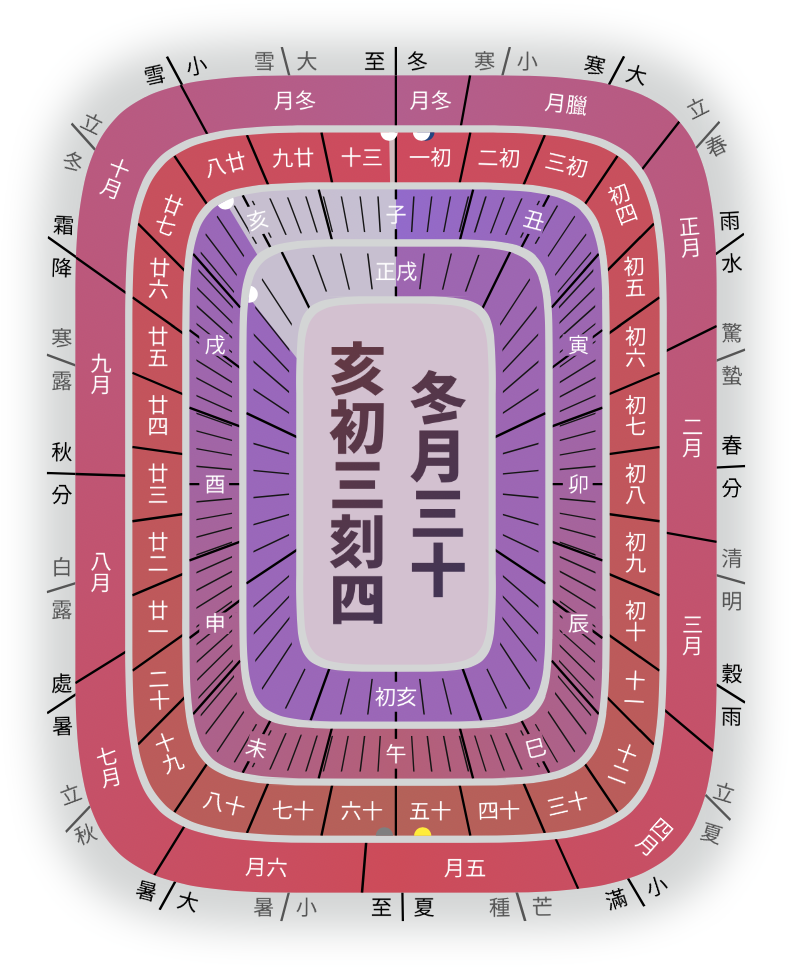
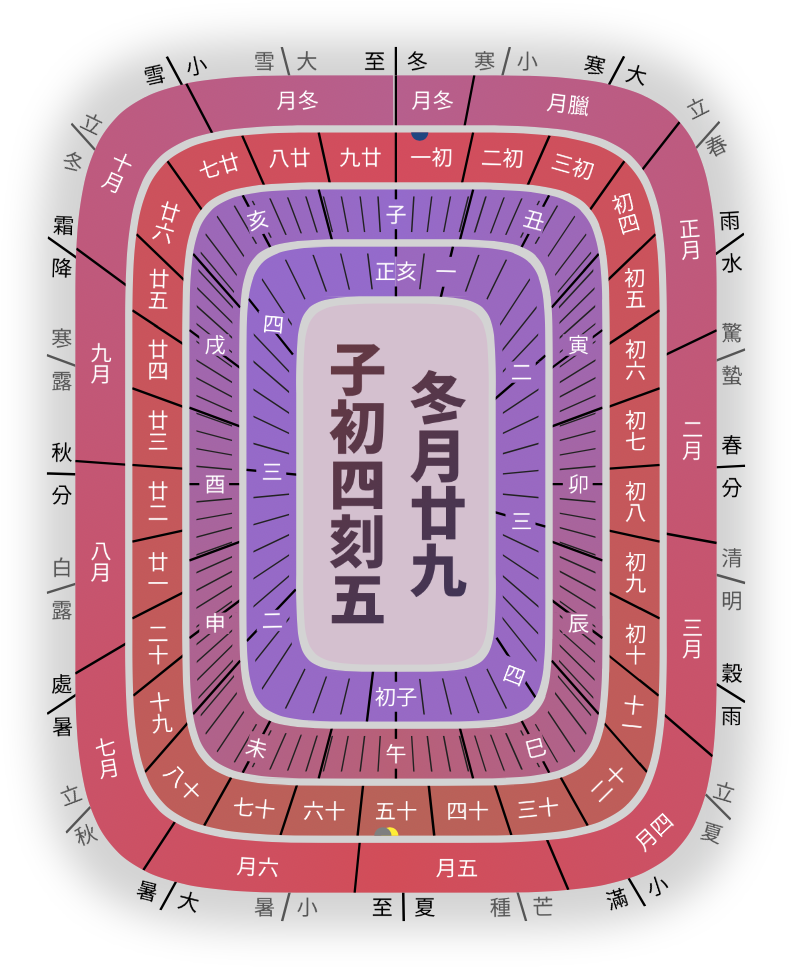
Several minor fixes

diff --git a/ChineseTime/Layout.swift b/ChineseTime/Layout.swift
@@ -287,7 +287,7 @@ class WatchLayout {
         return encoded
     }
     
-    init(from str: String) {
+    func update(from str: String) {
         let regex = try! NSRegularExpression(pattern: "^([a-z_0-9]+)\\s*:[\\s\"]*([^\\s\"#][^\"#]*)[\\s\"#]*(#*.*)$", options: .caseInsensitive)
         var values = Dictionary<String, String>()
         for line in str.split(whereSeparator: \.isNewline) {
@@ -298,46 +298,43 @@ class WatchLayout {
             }
         }
         
-        let backup = WatchLayout()
-        
         ChineseCalendar.globalMonth = values["globalMonth"]?.boolValue ?? ChineseCalendar.globalMonth
-        backAlpha = values["backAlpha"]?.floatValue ?? backup.backAlpha
-        firstRing = Gradient(from: values["firstRing"]?.replacingOccurrences(of: "{}", with: "\n")) ?? backup.firstRing
-        secondRing = Gradient(from: values["secondRing"]?.replacingOccurrences(of: "{}", with: "\n")) ?? backup.secondRing
-        thirdRing = Gradient(from: values["thirdRing"]?.replacingOccurrences(of: "{}", with: "\n")) ?? backup.thirdRing
-        innerColor = values["innerColor"]?.colorValue ?? backup.innerColor
-        majorTickColor = values["majorTickColor"]?.colorValue ?? backup.majorTickColor
-        minorTickColor = values["minorTickColor"]?.colorValue ?? backup.minorTickColor
-        centerFontColor = Gradient(from: values["centerFontColor"]?.replacingOccurrences(of: "{}", with: "\n")) ?? backup.centerFontColor
-        evenSolarTermTickColor = values["evenSolarTermTickColor"]?.colorValue ?? backup.evenSolarTermTickColor
-        oddSolarTermTickColor = values["oddSolarTermTickColor"]?.colorValue ?? backup.oddSolarTermTickColor
-        evenSolarTermTickColorDark = values["evenSolarTermTickColorDark"]?.colorValue ?? backup.evenSolarTermTickColorDark
-        oddSolarTermTickColorDark = values["oddSolarTermTickColorDark"]?.colorValue ?? backup.oddSolarTermTickColorDark
-        eclipseIndicator = values["eclipseIndicator"]?.colorValue ?? backup.eclipseIndicator
-        fullmoonIndicator = values["fullmoonIndicator"]?.colorValue ?? backup.fullmoonIndicator
-        oddStermIndicator = values["oddStermIndicator"]?.colorValue ?? backup.oddStermIndicator
-        evenStermIndicator = values["evenStermIndicator"]?.colorValue ?? backup.evenStermIndicator
-        fontColor = values["fontColor"]?.colorValue ?? backup.fontColor
-        shadeAlpha = values["shadeAlpha"]?.floatValue ?? backup.shadeAlpha
+        backAlpha = values["backAlpha"]?.floatValue ?? backAlpha
+        firstRing = Gradient(from: values["firstRing"]?.replacingOccurrences(of: "{}", with: "\n")) ?? firstRing
+        secondRing = Gradient(from: values["secondRing"]?.replacingOccurrences(of: "{}", with: "\n")) ?? secondRing
+        thirdRing = Gradient(from: values["thirdRing"]?.replacingOccurrences(of: "{}", with: "\n")) ?? thirdRing
+        innerColor = values["innerColor"]?.colorValue ?? innerColor
+        majorTickColor = values["majorTickColor"]?.colorValue ?? majorTickColor
+        minorTickColor = values["minorTickColor"]?.colorValue ?? minorTickColor
+        centerFontColor = Gradient(from: values["centerFontColor"]?.replacingOccurrences(of: "{}", with: "\n")) ?? centerFontColor
+        evenSolarTermTickColor = values["evenSolarTermTickColor"]?.colorValue ?? evenSolarTermTickColor
+        oddSolarTermTickColor = values["oddSolarTermTickColor"]?.colorValue ?? oddSolarTermTickColor
+        evenSolarTermTickColorDark = values["evenSolarTermTickColorDark"]?.colorValue ?? evenSolarTermTickColorDark
+        oddSolarTermTickColorDark = values["oddSolarTermTickColorDark"]?.colorValue ?? oddSolarTermTickColorDark
+        eclipseIndicator = values["eclipseIndicator"]?.colorValue ?? eclipseIndicator
+        fullmoonIndicator = values["fullmoonIndicator"]?.colorValue ?? fullmoonIndicator
+        oddStermIndicator = values["oddStermIndicator"]?.colorValue ?? oddStermIndicator
+        evenStermIndicator = values["evenStermIndicator"]?.colorValue ?? evenStermIndicator
+        fontColor = values["fontColor"]?.colorValue ?? fontColor
+        shadeAlpha = values["shadeAlpha"]?.floatValue ?? shadeAlpha
         if let name = values["textFont"] {
-            textFont = NSFont(name: name, size: NSFont.systemFontSize) ?? backup.textFont
-        } else {
-            textFont = backup.textFont
+            textFont = NSFont(name: name, size: NSFont.systemFontSize) ?? textFont
         }
         if let name = values["centerFont"] {
-            centerFont = NSFont(name: name, size: NSFont.systemFontSize) ?? backup.centerFont
-        } else {
-            centerFont = backup.centerFont
+            centerFont = NSFont(name: name, size: NSFont.systemFontSize) ?? centerFont
         }
-        centerTextOffset = values["centerTextOffset"]?.floatValue ?? backup.centerTextOffset
-        verticalTextOffset = values["verticalTextOffset"]?.floatValue ?? backup.verticalTextOffset
-        horizontalTextOffset = values["horizontalTextOffset"]?.floatValue ?? backup.horizontalTextOffset
+        centerTextOffset = values["centerTextOffset"]?.floatValue ?? centerTextOffset
+        verticalTextOffset = values["verticalTextOffset"]?.floatValue ?? verticalTextOffset
+        horizontalTextOffset = values["horizontalTextOffset"]?.floatValue ?? horizontalTextOffset
         if let width = values["watchWidth"]?.floatValue, let height = values["watchHeight"]?.floatValue {
             watchSize = NSMakeSize(width, height)
-        } else {
-            watchSize = backup.watchSize
         }
-        cornerRadiusRatio = values["cornerRadiusRatio"]?.floatValue ?? backup.cornerRadiusRatio
+        cornerRadiusRatio = values["cornerRadiusRatio"]?.floatValue ?? cornerRadiusRatio
+    }
+    
+    convenience init(from str: String) {
+        self.init()
+        update(from: str)
     }
 }
 
@@ -516,7 +513,12 @@ class ConfigurationViewController: NSViewController, NSWindowDelegate {
     }
     @IBAction func revert(_ sender: Any) {
         view.window?.makeFirstResponder(revertButton)
-        updateUI()
+        if let watchFace = WatchFace.currentInstance, let temp = WatchFaceView.layoutTemplate {
+            watchFace._view.watchLayout.update(from: temp)
+            watchFace.updateSize(with: watchFace.frame)
+            watchFace._view.drawView()
+            updateUI()
+        }
     }
     @IBAction func apply(_ sender: Any) {
         updateData()

diff --git a/ChineseTime/WatchFace.swift b/ChineseTime/WatchFace.swift
@@ -87,7 +87,7 @@ class RoundedRect {
     func shrink(by diameterChange: CGFloat) -> RoundedRect {
         let shortEdgeLength = min(_boundBox.width, _boundBox.height)
         let horizontalShift = diameterChange * (shortEdgeLength - _nodePos) / max(_boundBox.width, _boundBox.height)
-        let newNodePos = min(shortEdgeLength / 2 - diameterChange, _nodePos + horizontalShift - diameterChange)
+        let newNodePos = max(0, min(shortEdgeLength / 2 - diameterChange, _nodePos + horizontalShift - diameterChange))
         let newAnkorPos = max(0, (_ankorPos + 0.55 * diameterChange + 0.31 * horizontalShift) - diameterChange)
         var newBoundBox = _boundBox
         newBoundBox.origin.x += diameterChange
@@ -98,6 +98,7 @@ class RoundedRect {
     }
     
     func bezierLength(t: CGFloat) -> CGFloat {
+        guard _nodePos > 0 else { return 0 }
         let alpha = _ankorPos / _nodePos
         
         var length = -2 * (3 - 3 * t + pow(t, 2))
@@ -811,16 +812,34 @@ class WatchFaceView: NSView {
         thirdRingMinorTicksShape.mask = thirdRingMinor
         
         let quarterRing = fourthRingOuter.shrink(by: 0.035 * shortEdge)
-        let innerHourPoints = quarterRing.arcPoints(lambdas: [0.0, 0.5])
+        let subHourTicks = Array(subHourTick).sorted()
+        let innerHourPoints = quarterRing.arcPoints(lambdas: subHourTicks)
         let innerHourNameMaskPath = CGMutablePath()
-        
-        let evenHourText = "\(ChineseCalendar.terrestrial_branches[Int(currentHour / 2)])正"
-        let oddHourText = "\(ChineseCalendar.terrestrial_branches[(Int(currentHour / 2)+1) % 12])初"
-        let innerHourMaskPath1 = drawText(str: evenHourText, at: innerHourPoints[0].position, angle: innerHourPoints[0].direction, color: watchLayout.fontColor, size: fontSize)
-        let innerHourMaskPath2 = drawText(str: oddHourText, at: innerHourPoints[1].position, angle: innerHourPoints[1].direction, color: watchLayout.fontColor, size: fontSize)
-        
-        innerHourNameMaskPath.addPath(innerHourMaskPath1)
-        innerHourNameMaskPath.addPath(innerHourMaskPath2)
+        let evenHourText = ChineseCalendar.terrestrial_branches[Int(currentHour / 2)] + ChineseCalendar.sub_hour_name[1]
+        let oddHourText = ChineseCalendar.terrestrial_branches[(Int(currentHour / 2)+1) % 12] + ChineseCalendar.sub_hour_name[0]
+
+        i = 0
+        for point in innerHourPoints {
+            let str: String
+            let dist = abs(subHourTicks[i] * 2 - round(subHourTicks[i] * 2))
+            if dist == 0 || dist > 0.05 {
+                switch i {
+                case 0:
+                    str = evenHourText
+                case 5:
+                    str = oddHourText
+                case 1...4:
+                    str = ChineseCalendar.chinese_numbers[i]
+                case 6...9:
+                    str = ChineseCalendar.chinese_numbers[i-5]
+                default:
+                    str = ""
+                }
+                let path = drawText(str: str, at: point.position, angle: point.direction, color: watchLayout.fontColor, size: fontSize)
+                innerHourNameMaskPath.addPath(path)
+            }
+            i += 1
+        }
         fourthRingOuterPath.addPath(innerHourNameMaskPath)
         fourthRingMinorPath.addPath(innerHourNameMaskPath)
         fourthRingMinor.path = fourthRingMinorPath

diff --git a/ChineseTime/Model.swift b/ChineseTime/Model.swift
@@ -59,6 +59,7 @@ class ChineseCalendar {
     static let month_chinese = ["冬月", "臘月", "正月", "二月", "三月", "四月", "五月", "六月", "七月", "八月", "九月", "十月"]
     static let day_chinese = ["初一", "初二", "初三", "初四", "初五", "初六", "初七", "初八", "初九", "初十" ,"十一", "十二", "十三", "十四", "十五", "十六", "十七", "十八", "十九", "二十", "廿一", "廿二", "廿三", "廿四", "廿五", "廿六", "廿七", "廿八", "廿九", "三十"]
     static let terrestrial_branches = ["子","丑","寅","卯","辰","巳","午","未","申","酉","戌","亥"]
+    static let sub_hour_name = ["初", "正"]
     static let chinese_numbers = ["初", "一", "二", "三", "四", "五"]
     static let evenSolarTermChinese = ["冬　至", "大　寒", "雨　水", "春　分", "穀　雨", "小　滿", "夏　至", "大　暑", "處　暑", "秋　分", "霜　降", "小　雪"]
     static let oddSolarTermChinese = ["小　寒", "立　春", "驚　蟄", "清　明", "立　夏", "芒　種", "小　暑", "立　秋", "白　露", "寒　露", "立　冬", "大　雪"]
